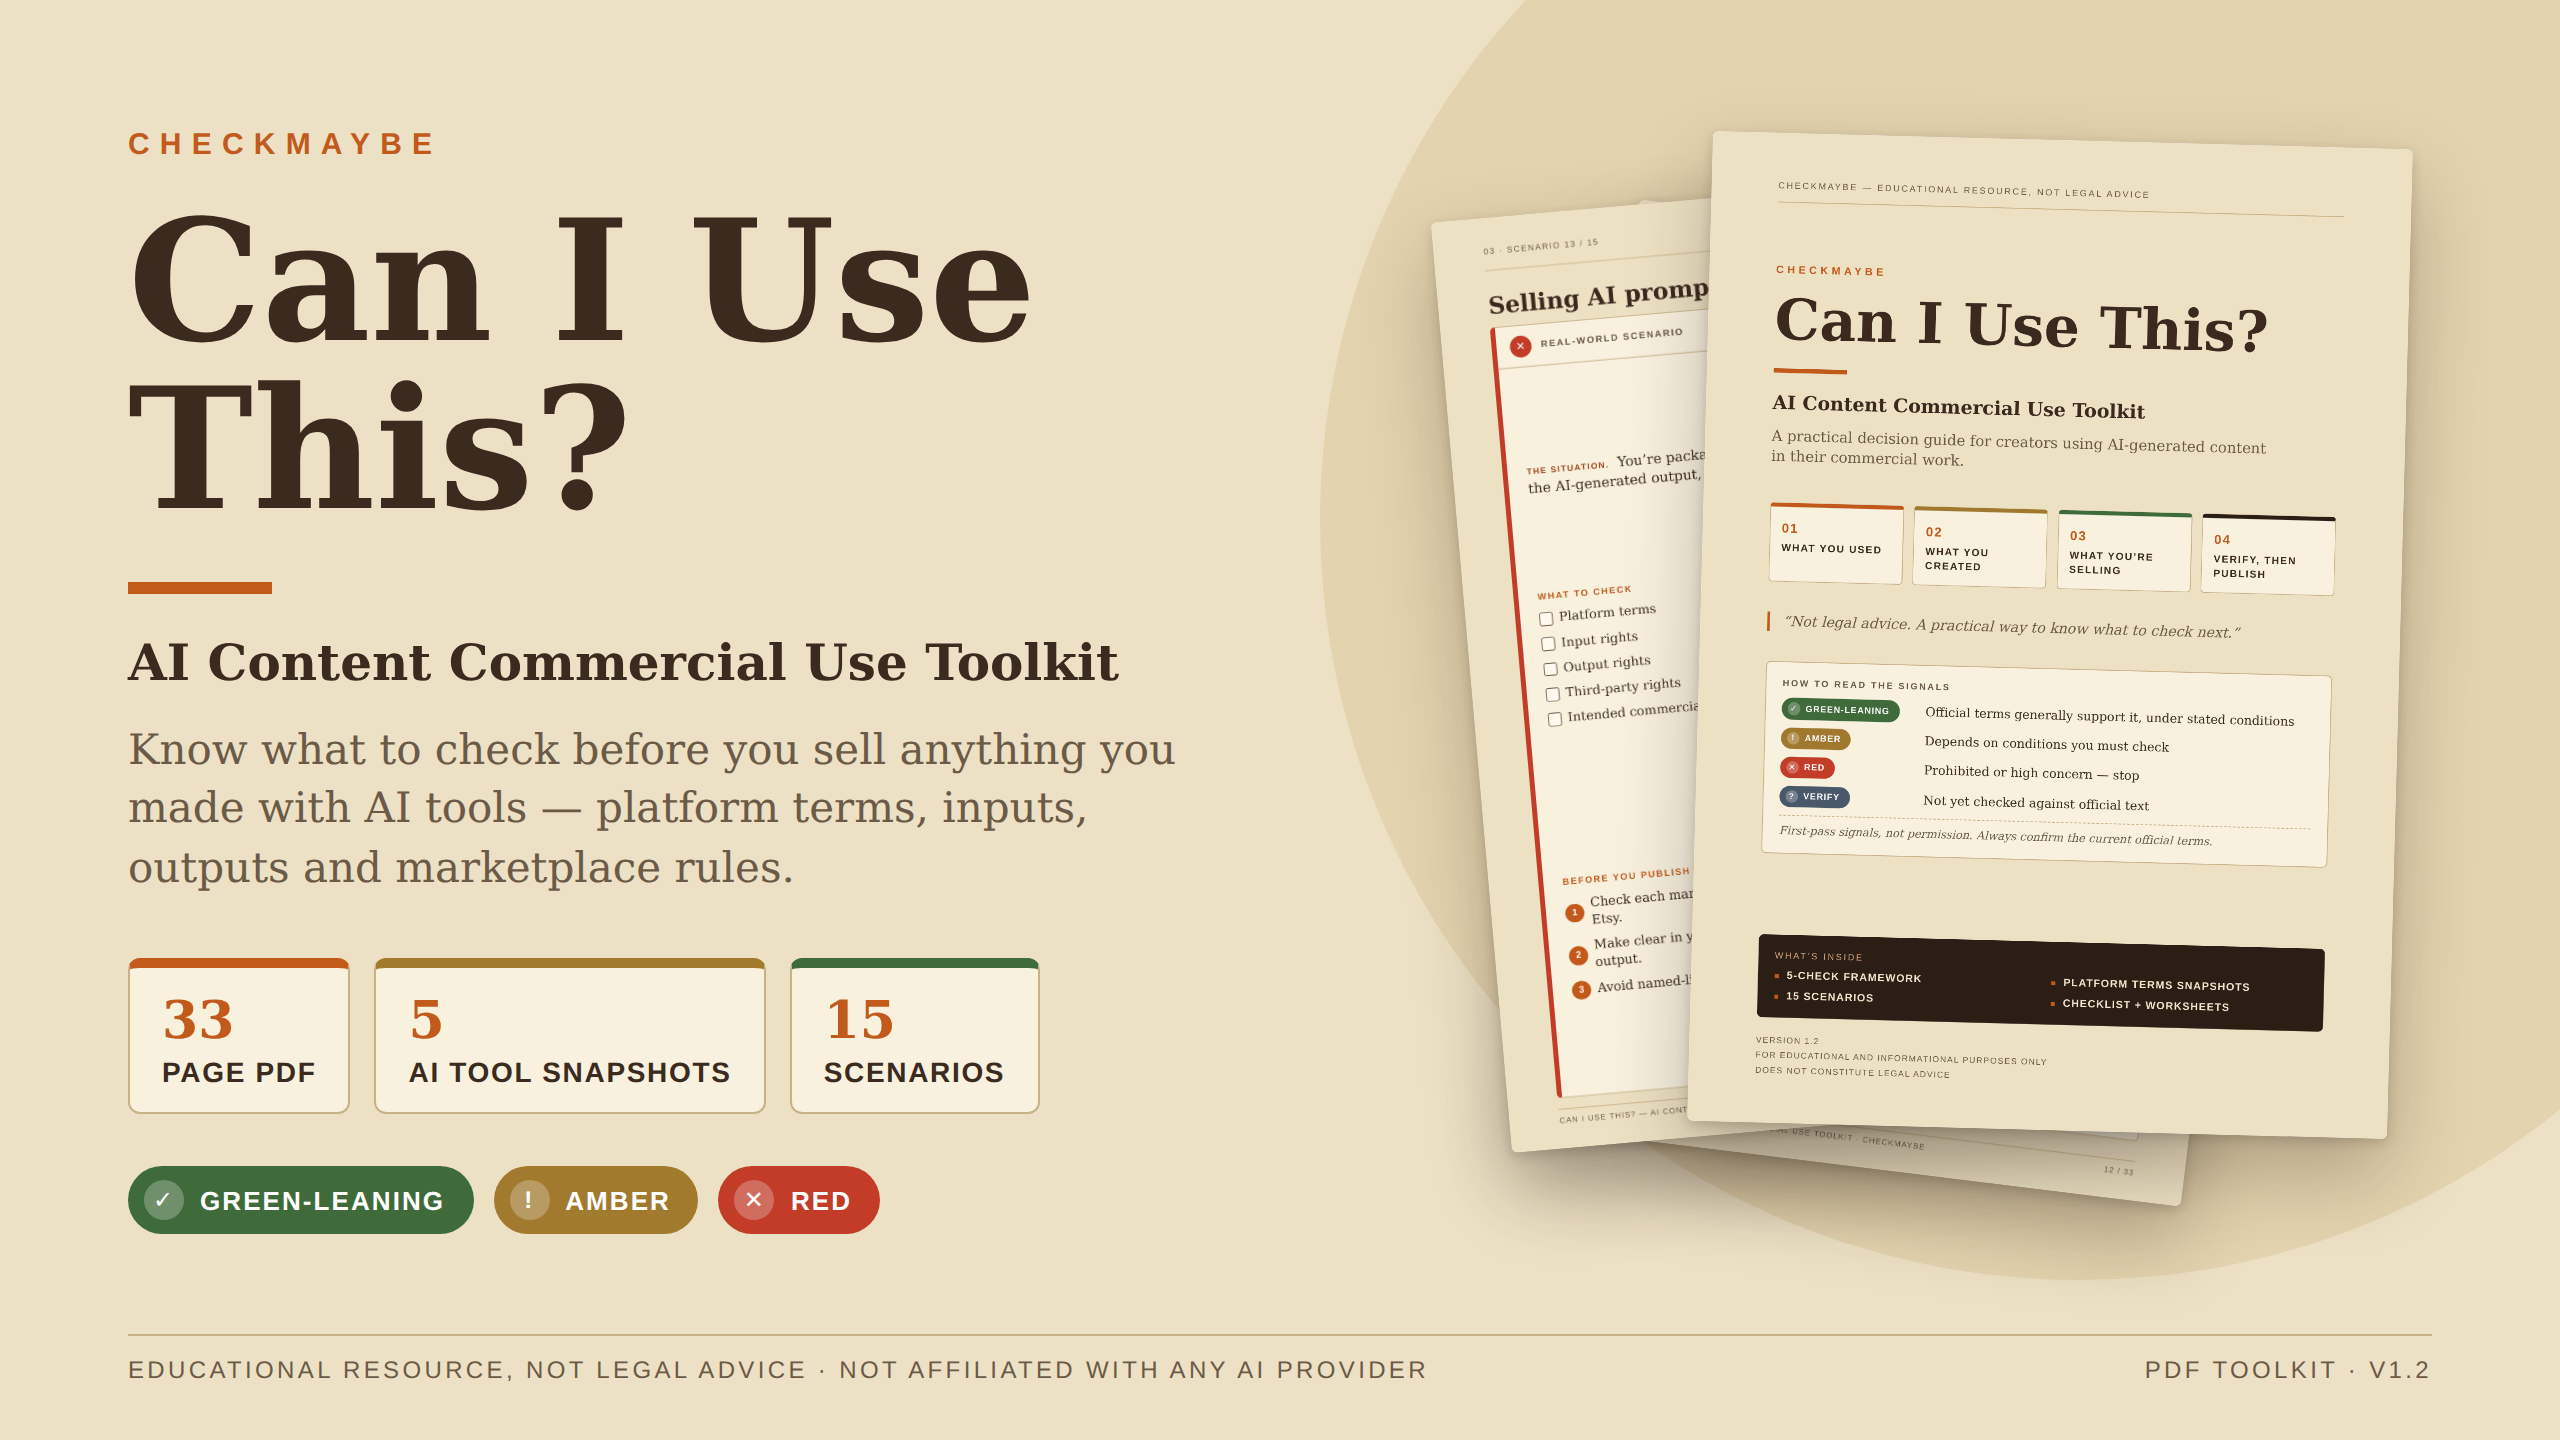
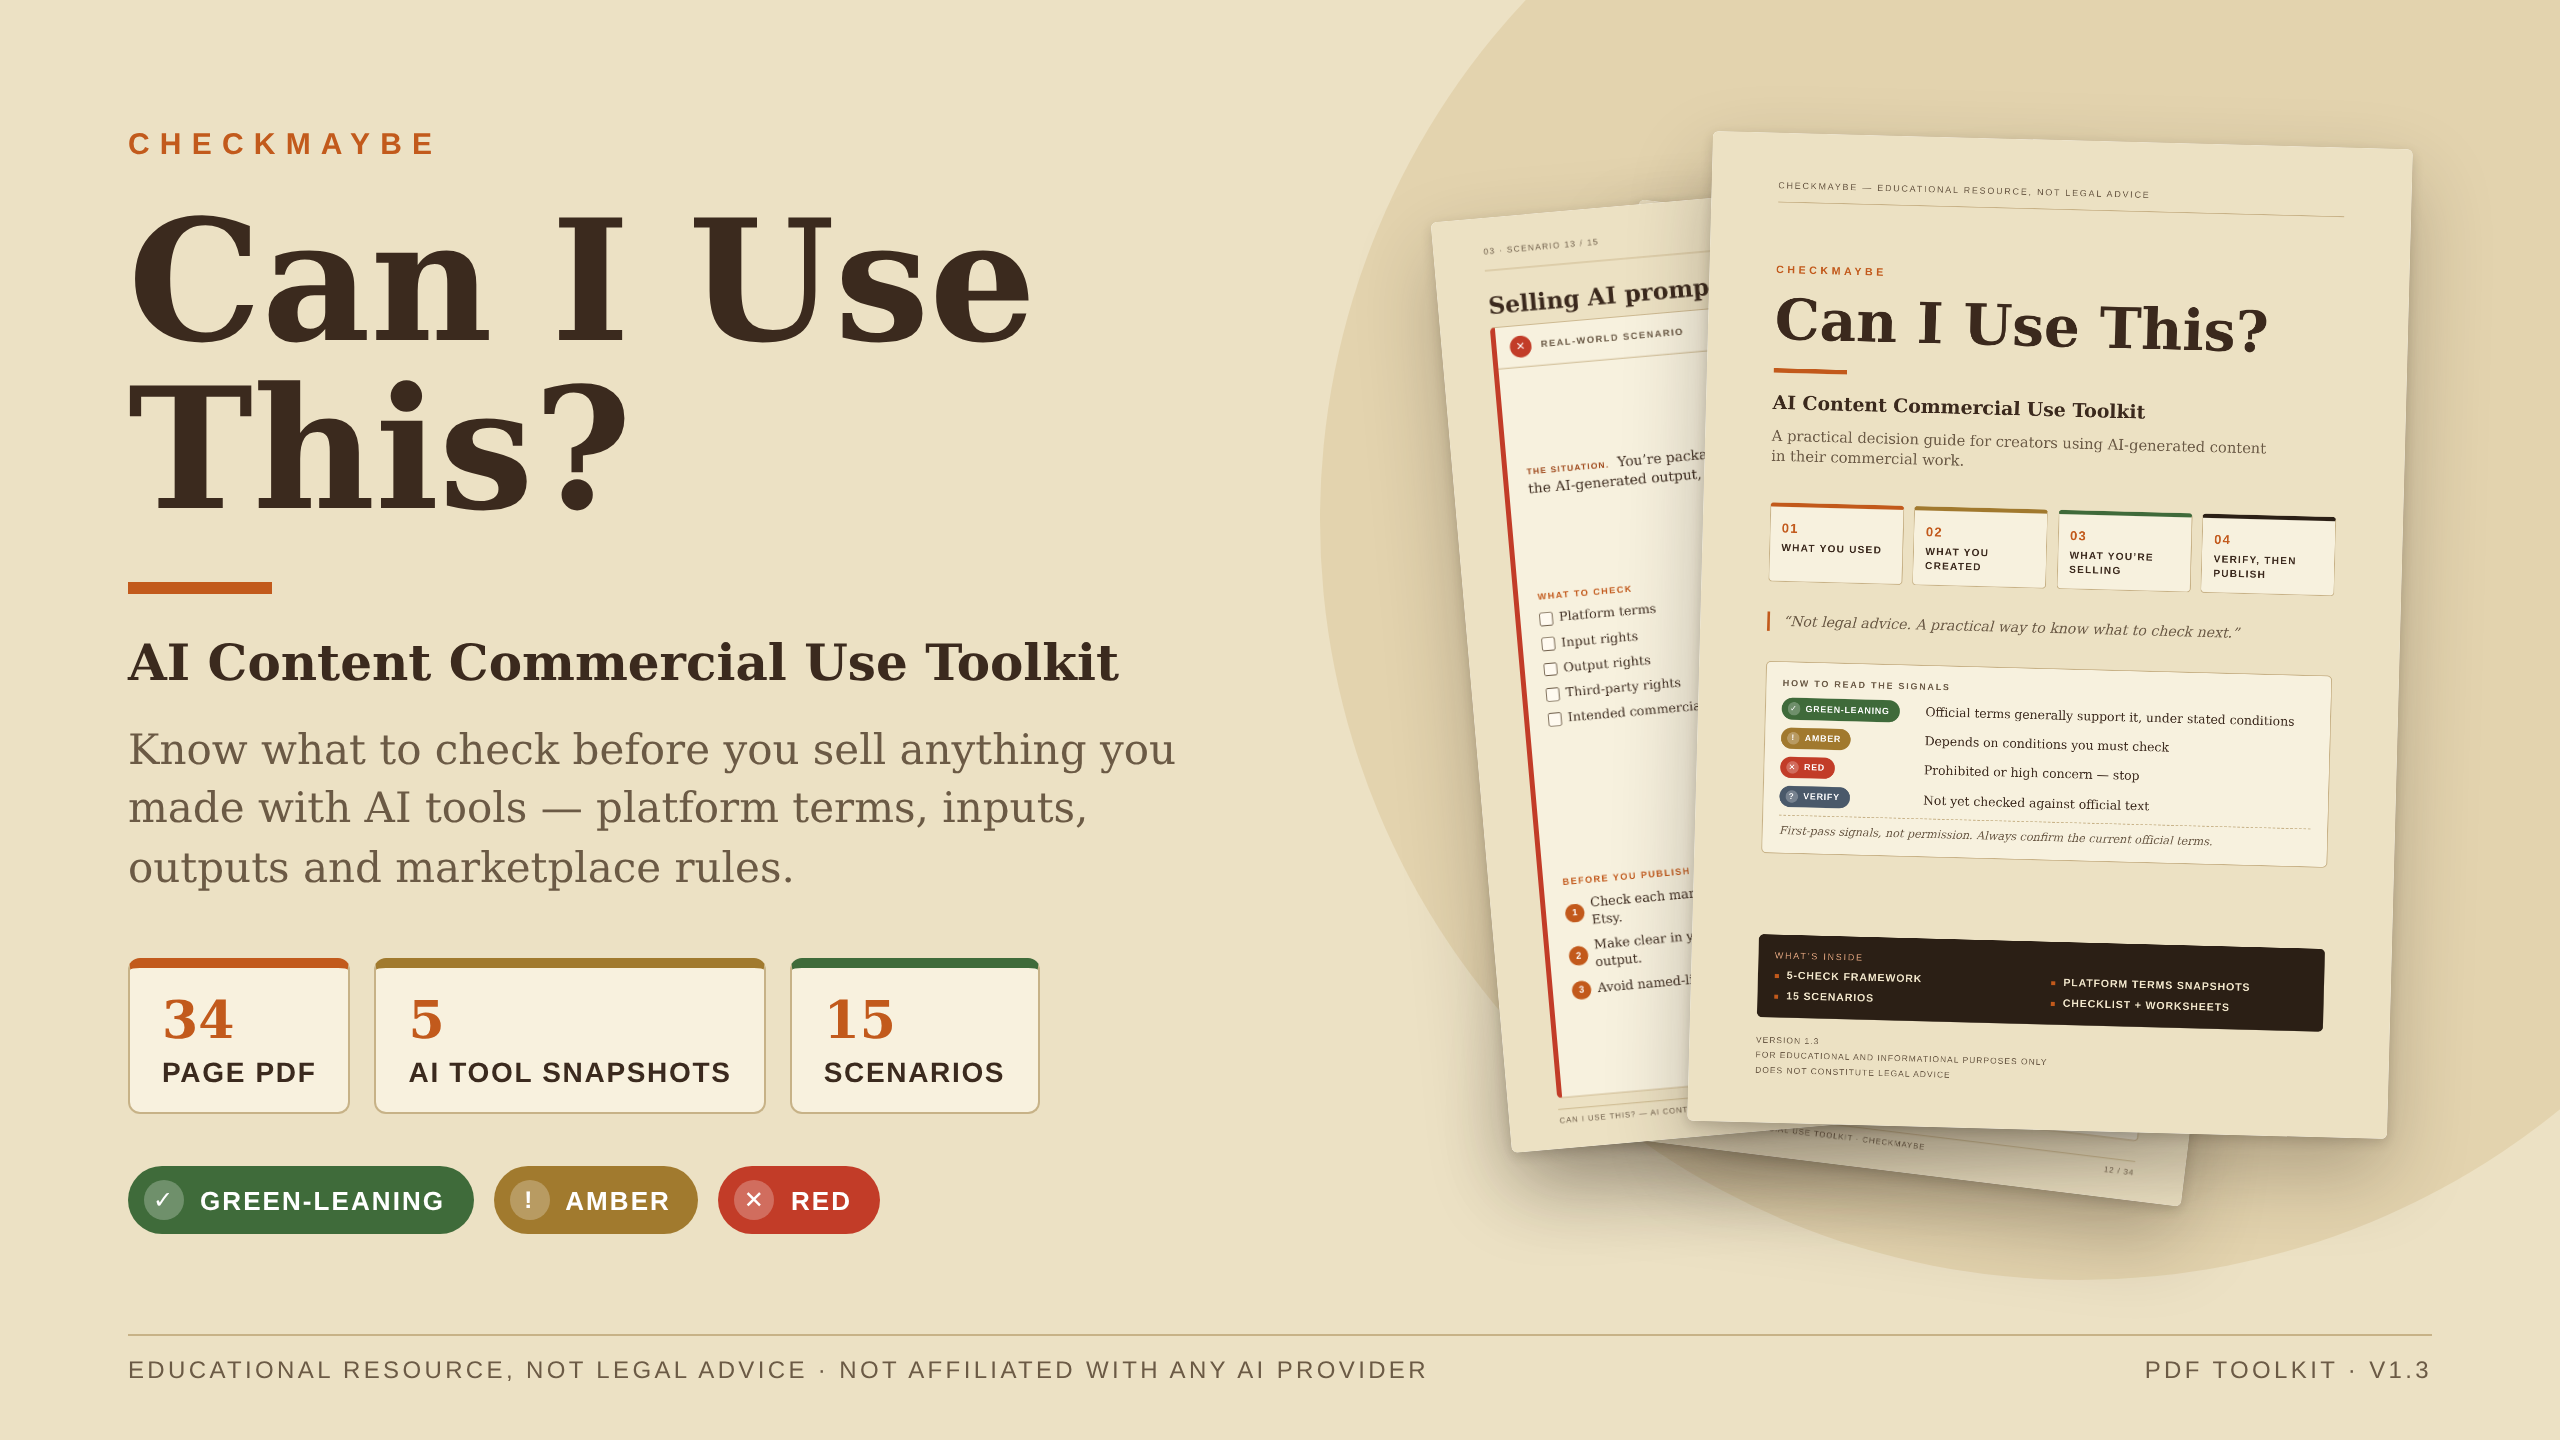
Can I Use This? v1.3 listing images (34 pages, new Etsy terms page in preview)
Claude-Session: https://claude.ai/code/session_01C31xGpXxLcjXH3oTDRifkH

diff --git a/products/build/mk.py b/products/build/mk.py
@@ -121,15 +121,15 @@ PRODUCTS = [
                             ("The reason, with the clause", "Each answer cites the official source, e.g. CLA §5.", (0.045, 0.25)),
                             ("A marketplace check", "Etsy’s own-design rule, built into the checklist.", (0.045, 0.394)),
                             ("What could change it", "The edge cases that flip the answer to AMBER or RED.", (0.045, 0.455))]}},
-    {"id": "ai-v1.2", "slug": "can-i-use-this", "title": "Can I Use This?", "subtitle": "AI Content Commercial Use Toolkit",
+    {"id": "ai-v1.3", "slug": "can-i-use-this", "title": "Can I Use This?", "subtitle": "AI Content Commercial Use Toolkit",
      "value": "Know what to check before you sell anything you made with AI tools — platform terms, inputs, outputs and marketplace rules.",
-     "stats": [("33", "PAGE PDF"), ("5", "AI TOOL SNAPSHOTS"), ("15", "SCENARIOS")],
-     "stack": [25, 12], "version": "1.2", "pages": "33",
+     "stats": [("34", "PAGE PDF"), ("5", "AI TOOL SNAPSHOTS"), ("15", "SCENARIOS")],
+     "stack": [26, 12], "version": "1.3", "pages": "34",
      "foot": "EDUCATIONAL RESOURCE, NOT LEGAL ADVICE · NOT AFFILIATED WITH ANY AI PROVIDER",
      "pv_title": "Look inside the toolkit",
-     "pv_sub": "A quick decision map, AI tool terms snapshots, Etsy’s October 2026 AI rules, 15 real-world scenarios, a checklist and worksheets.",
-     "preview": [(5, "DECISION MAP"), (7, "AI TOOL SNAPSHOTS"), (12, "ETSY OCT 2026 RULES"), (29, "BEFORE-YOU-SELL CHECKLIST")],
-     "featured": {"page": 25, "crop_top": 0.045, "width": 520, "title": "Some answers are a clear no — and the toolkit says so",
+     "pv_sub": "AI tool terms snapshots, Etsy’s October 2026 AI rules, Etsy’s new Terms on AI training, 15 real-world scenarios, a checklist and worksheets.",
+     "preview": [(7, "AI TOOL SNAPSHOTS"), (12, "ETSY OCT 2026 RULES"), (13, "ETSY TERMS · AI TRAINING"), (30, "BEFORE-YOU-SELL CHECKLIST")],
+     "featured": {"page": 26, "crop_top": 0.045, "width": 520, "title": "Some answers are a clear no — and the toolkit says so",
                   "calls": [("A clear signal", "Selling AI prompt bundles: NOT ALLOWED ON ETSY.", (0.645, 0.14)),
                             ("Grounded in the official rule", "Etsy’s Stance on AI Creations (Oct 2026), cited.", (0.486, 0.525)),
                             ("The same five checks", "Platform, input, output, third-party rights and intended use.", (0.045, 0.44)),

diff --git a/products/build/thumb.py b/products/build/thumb.py
@@ -16,7 +16,7 @@ h1{font-size:76px;line-height:.98;margin-top:16px;font-weight:bold}
 .dots span{width:22px;height:22px;border-radius:50%}
 """
 SUB = {"canva-v3.2": ("Commercial use toolkit for Canva sellers", "28-PAGE PDF · 22 SCENARIOS"),
-       "ai-v1.2": ("AI content commercial use toolkit", "33-PAGE PDF · 15 SCENARIOS")}
+       "ai-v1.3": ("AI content commercial use toolkit", "34-PAGE PDF · 15 SCENARIOS")}
 for p in PRODUCTS:
     sub, meta = SUB[p["id"]]
     t = p["title"].replace("This?", "<br>This?")

diff --git a/planning/2026-09-product-validation/09-ai-toolkit-v1.3-revision.md b/planning/2026-09-product-validation/09-ai-toolkit-v1.3-revision.md
@@ -17,3 +17,4 @@ Changes (`products/build/ai-v1.3.json`, 34 pages):
 QA: build.sh, 0 failing pages (zoom p5 0.98, p12 0.9, p13 0.9, p34 0.9); p13, p30, p34 checked visually.
 Listing: `products/can-i-use-this/listing-gumroad.md`, `listing-beacons.md`, `gumroad-fields.md` (v1.3, 34 pages). Bundle: 83 → 84 pages (`bundle.py`, `products/bundle/listing-gumroad.md`, images in `products/bundle/images/`).
 Founder: upload `products/can-i-use-this/Can-I-Use-This-v1.3.pdf` on Gumroad (Can I Use This? and the bundle) and Beacons; paste the updated listing text; replace bundle images.
+Listing images (2026-11-01): cover, preview (p7, p12, p13, p30), featured (p26) and Gumroad thumb regenerated for v1.3 with mk.py/thumb.py → products/can-i-use-this/images/.
